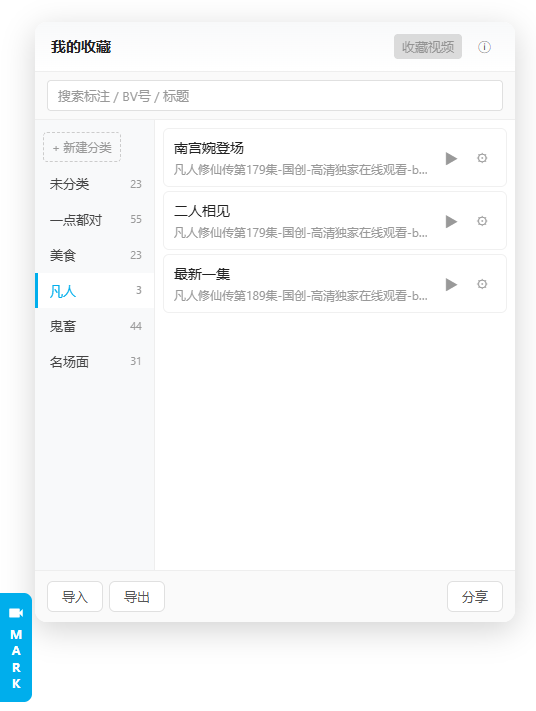
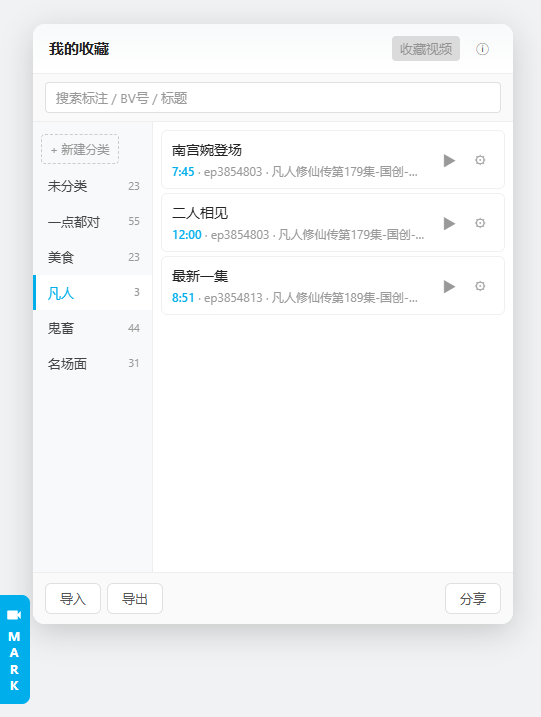
fix: 修正进度时间不显示的问题

diff --git a/dist/bilibili-marks.user.js b/dist/bilibili-marks.user.js
@@ -3,7 +3,7 @@
 // @name:zh-CN   B 站收藏夹增强工具
 // @name:en      Bilibili Marks
 // @namespace    darkwinoom/tampermonkey-bilibili-marks
-// @version      1.1.0
+// @version      1.1.1
 // @description  Tampermonkey 脚本:管理 B 站收藏分类与多时间点标记,支持一键收藏与静态页分享。
 // @match        https://www.bilibili.com/*
 // @icon         https://www.bilibili.com/favicon.ico
@@ -317,7 +317,7 @@
   function highlightInto(parent, text, q) {
     const query = q.trim();
     if (!query) {
-      parent.textContent = text;
+      parent.appendChild(_doc.createTextNode(text));
       return;
     }
     const lower = text.toLowerCase();
@@ -554,7 +554,8 @@
         var labelEl = h("div", { class: "bm-entry-label" });
         highlightInto(labelEl, e.label || "(\u672A\u547D\u540D)", state2.searchQuery);
         var metaEl = h("div", { class: "bm-entry-meta" });
-        metaEl.appendChild(_doc.createTextNode(formatTime(e.time) + " \xB7 "));
+        metaEl.appendChild(h("span", { class: "bm-entry-time" }, formatTime(e.time)));
+        metaEl.appendChild(_doc.createTextNode(" \xB7 "));
         highlightInto(metaEl, e.bvid, state2.searchQuery);
         if (e.p > 1) metaEl.appendChild(_doc.createTextNode(" \xB7 P" + e.p));
         if (e.title) {
@@ -1482,6 +1483,12 @@ mark.bm-hl {
   text-overflow: ellipsis;
 }
 
+.bm-entry-time {
+  color: #00AEEC;
+  font-weight: 600;
+  font-variant-numeric: tabular-nums;
+}
+
 .bm-entry-actions {
   display: flex;
   gap: 2px;
@@ -1723,6 +1730,9 @@ mark.bm-hl {
   }
   .bm-entry-label {
     color: #eee;
+  }
+  .bm-entry-time {
+    color: #00C4F4;
   }
   #bm-panel-footer {
     background: #1f1f1f;

diff --git a/src/ui/panel.ts b/src/ui/panel.ts
@@ -41,10 +41,13 @@ export function filterCategoriesBySearch(
   return out;
 }
 
-/** 把 text 中所有匹配 q 的子串用 <mark class="bm-hl"> 包裹(XSS 安全,用 textContent 拼) */
+/** 把 text 中所有匹配 q 的子串用 <mark class="bm-hl"> 包裹(XSS 安全,用 textContent 拼)
+ *  append 语义:不覆盖 parent 已有 children,与前序 appendChild 的内容共存
+ *  关键:query 为空时用 appendChild(textNode) 而不是 parent.textContent = text
+ *  否则会清掉前面 append 的 time span / 分隔符等 */
 export function highlightInto(parent: HTMLElement, text: string, q: string): void {
   const query = q.trim();
-  if (!query) { parent.textContent = text; return; }
+  if (!query) { parent.appendChild(_doc.createTextNode(text)); return; }
   const lower = text.toLowerCase();
   const ql = query.toLowerCase();
   let i = 0;
@@ -398,8 +401,11 @@ export function createPanel(
       var labelEl = h("div", { class: "bm-entry-label" });
       highlightInto(labelEl, e.label || "(未命名)", state.searchQuery);
 
+      // meta 行:time · bvid · p? · title
+      // highlightInto 是 append 语义,不会覆盖前面 append 的 time span
       var metaEl = h("div", { class: "bm-entry-meta" });
-      metaEl.appendChild(_doc.createTextNode(formatTime(e.time) + " · "));
+      metaEl.appendChild(h("span", { class: "bm-entry-time" }, formatTime(e.time)));
+      metaEl.appendChild(_doc.createTextNode(" · "));
       highlightInto(metaEl, e.bvid, state.searchQuery);
       if (e.p > 1) metaEl.appendChild(_doc.createTextNode(" · P" + e.p));
       if (e.title) {

diff --git a/tests/panel.test.ts b/tests/panel.test.ts
@@ -66,10 +66,13 @@ describe('filterEntries', () => {
 describe('highlightInto', () => {
   const doc = getDoc();
 
-  it('empty query sets plain textContent', () => {
+  it('empty query appends text (does not clear prior children)', () => {
     const el = doc.createElement('span');
+    // 关键:之前用 parent.textContent = text 会清掉前面 append 的 children
+    // 现在用 appendChild 保留前序内容
+    el.appendChild(doc.createTextNode('prefix · '));
     highlightInto(el, 'hello', '');
-    expect(el.textContent).toBe('hello');
+    expect(el.textContent).toBe('prefix · hello');
     expect(el.querySelector('mark')).toBeNull();
   });
 

diff --git a/src/ui/styles.css b/src/ui/styles.css
@@ -313,6 +313,12 @@ mark.bm-hl {
   text-overflow: ellipsis;
 }
 
+.bm-entry-time {
+  color: #00AEEC;
+  font-weight: 600;
+  font-variant-numeric: tabular-nums;
+}
+
 .bm-entry-actions {
   display: flex;
   gap: 2px;
@@ -554,6 +560,9 @@ mark.bm-hl {
   }
   .bm-entry-label {
     color: #eee;
+  }
+  .bm-entry-time {
+    color: #00C4F4;
   }
   #bm-panel-footer {
     background: #1f1f1f;
